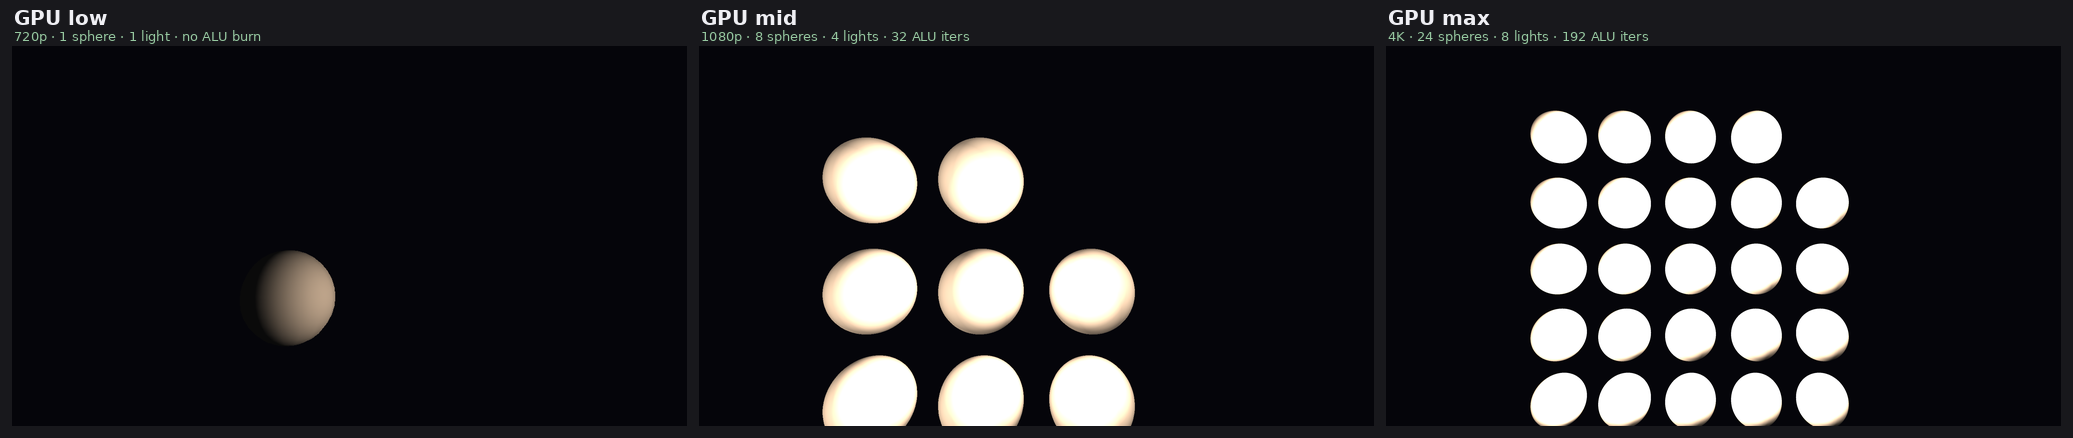
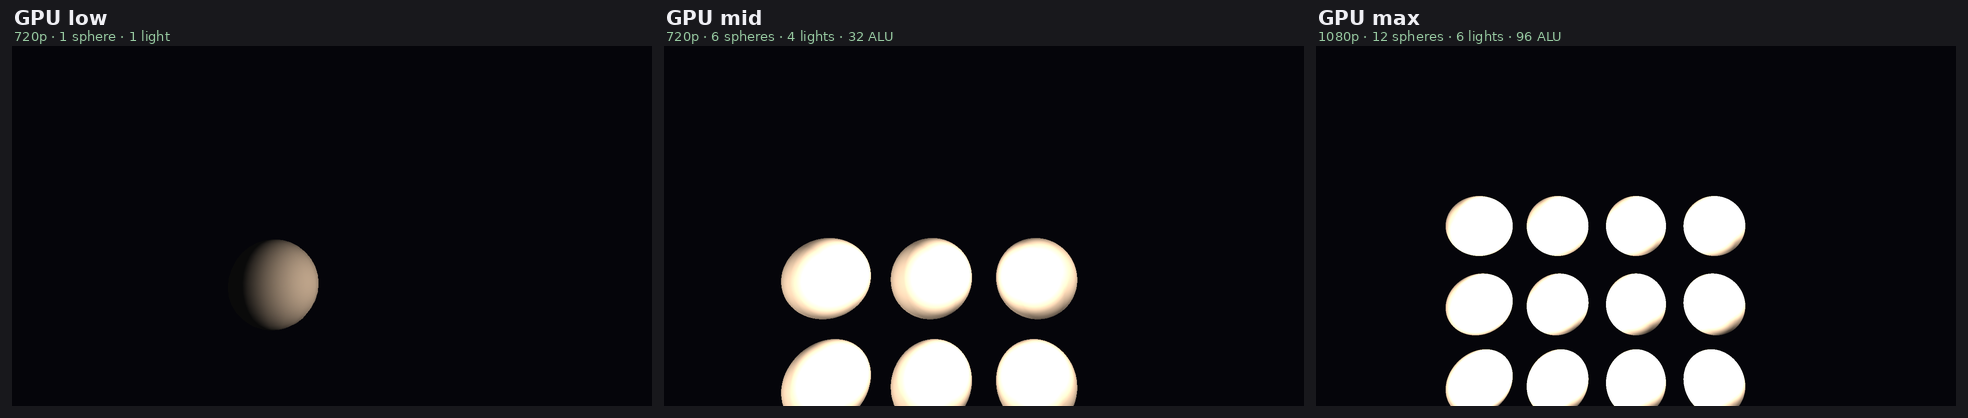
README: quick-start guide + menu/dashboard/frame-buffer screenshots
Reworks the README into a get-started-fast guide: a 30-second mock quick start
(clone, build, run, walk the menu), a concise "running on an i.MX95" section
pointing at docs/BOARD.md with the cross-compile one-liner, and per-subsystem
build options. Adds real screenshots — the menu system, the live run dashboard,
the GPU frame-buffer renders (low/mid/max, recalibrated), and the actual Big
Buck Bunny frame the decoder now processes. Updates status to "running on real
i.MX95 silicon" and fixes the stale -DIMX95_TARGET reference (backends are
per-subsystem). Drops the superseded synthetic-input image.

diff --git a/README.md b/README.md
@@ -4,29 +4,63 @@ An interactive, single-binary command-line harness for exercising **NXP i.MX95**
 media/compute blocks — **GPU** and **VPU** today, **NPU** later — and measuring
 how loading one block affects another.
 
-The goal is not to benchmark a block in isolation. It is to answer questions an
-SoC integrator actually asks:
+The goal is not to benchmark a block in isolation. It is to answer the question
+an SoC integrator actually asks:
 
-> *If I max out the GPU and run a 4K VPU encode, what does that do to my camera
-> pipeline, and to total DDR bandwidth?*
+> *If I max out the GPU and run a 4K VPU decode, what does that do to my other
+> blocks, and to total DDR bandwidth?*
 
-You pick some heavy workloads, run them together (or alone), and at the end you
-get per-workload throughput plus the **global DDR memory-traffic** numbers that
-expose cross-block interference.
+You pick some heavy workloads, run them together (or alone), and get per-workload
+throughput plus the **global DDR memory-traffic** numbers that expose cross-block
+interference.
 
-> **Status:** the full interactive CLI, parallel run engine, live dashboard,
-> graceful shutdown, and stats reporting work today. Each subsystem's backend is
-> selected independently at build time:
+![menu](docs/images/menu.png)
+
+During a run, a live dashboard shows each workload's fps and the rolling DDR
+bandwidth; stop any time for a final report:
+
+![live dashboard](docs/images/dashboard.png)
+
+> **Status:** GPU, VPU, and the DDR monitor are all **running on real i.MX95
+> silicon** (an i.MX95 EVK). Each subsystem's backend is selected independently
+> at build time, and a full **mock** build runs the entire UI on any Linux host:
 >
-> | Subsystem | `mock` | real |
+> | Subsystem | `mock` | real backend |
 > |-----------|:------:|------|
-> | GPU | ✅ | ✅ `gles` — EGL + GLES2, builds & runs on host Mesa **and** i.MX95 Mali |
-> | VPU | ✅ | ✅ `v4l2` — V4L2 mem2mem decode/encode; validated on `vicodec` (host), single- + multi-planar, pending board |
-> | DDR | ✅ | ✅ `pmu` — i.MX9 DDR perf counters via `perf_event_open`; host falls back to the estimate bus, pending board |
+> | GPU | ✅ | ✅ `gles` — EGL + GLES2, headless via GBM; host Mesa **and** i.MX95 Mali |
+> | VPU | ✅ | ✅ `v4l2` — V4L2 mem2mem decode/encode; H.264 on the i.MX95 Wave VPU |
+> | DDR | ✅ | ✅ `pmu` — i.MX9 DDR perf counters via `perf_event_open` |
 >
-> Mock backends run anywhere (host, CI, `qemu-imx95`, which has no GPU/VPU). The
-> GLES backend is *real* and portable, so the GPU code path is validated on a
-> dev host before it ever touches silicon.
+> Still in progress: NPU (eIQ Neutron), an optional on-screen GPU window, and
+> tuning. See [`docs/DESIGN.md`](docs/DESIGN.md).
+
+## Quick start — try the UI in 30 seconds (no i.MX95 needed)
+
+The all-mock build runs the complete interface anywhere — host, CI, or
+`qemu-imx95` (which has no GPU/VPU). It simulates the workloads so you can learn
+the menus, run loop, and reporting before touching hardware.
+
+```sh
+git clone https://github.com/kylefoxaustin/imx95-media-test
+cd imx95-media-test
+cmake -S . -B build
+cmake --build build -j
+./build/imx95-test
+```
+
+Then drive the menu (it mirrors the screenshots above):
+
+1. `1` → **Configure workloads**.
+2. `1` → GPU → `3` (mid) → `b`. Then `2` → VPU decode → `3` (1080p) → `b`. Then
+   `b` back to the main menu. Selections apply instantly and are always shown;
+   `b` goes back everywhere — no dead ends.
+3. `2` → **Run** → `1` continuous (or `2` once, `3` a fixed loop count).
+4. Watch the live dashboard. Press **space** for a menu (resume / stop & report /
+   quit), or **Ctrl-C** to stop gracefully. Either way you get a per-workload +
+   DDR **run report**.
+
+On real hardware the experience is identical — you just build with the real
+backends (see **Running on an i.MX95** below).
 
 ## What it exercises
 
@@ -42,135 +76,101 @@ single-resolution. The GPU level is a single choice.
 ## What the workloads look like
 
 The GPU workload renders a procedural lit-sphere scene whose cost scales across
-the levels — geometry, light count, and per-pixel shader work all increase:
+the levels — resolution, geometry, light count, and per-pixel shader work all
+increase (these defaults are tuned for the Mali-G310 and are overridable with
+`IMX95_GPU_*` env vars):
 
 ![GPU scene at low / mid / max](docs/images/gpu_scene.png)
 
-The VPU encode workload is fed procedurally generated frames: a deterministic
-*moving byte pattern*, not a real image — for a codec **throughput** test the
-pixel content is irrelevant, only that frames differ each tick. (Decode loops a
-bitstream produced by encoding a few of these into memory, so no media files are
-needed.)
+VPU **decode** runs real **Big Buck Bunny** content (baked into the binary at
+720p/1080p/4K) so its frame rate is representative — synthetic frames compress to
+almost nothing and decode unrealistically fast:
 
-![VPU synthetic encoder input](docs/images/vpu_synthetic.png)
+![VPU decode input — Big Buck Bunny](docs/images/vpu_decode.png)
 
-> Captured headless via EGL surfaceless with `IMX95_GPU_DUMP=<path.ppm>`.
+(VPU **encode** is fed procedurally generated raw frames; for an encode
+throughput test the pixel content is irrelevant, only that frames change.)
+
+> GPU frames captured headless with `IMX95_GPU_DUMP=<path.ppm>`.
+
+## Running on an i.MX95
+
+The deploy artifact is a single binary — see **[`docs/BOARD.md`](docs/BOARD.md)**
+for the full build + run + bring-up guide. The short version, cross-compiling a
+ready-to-upload binary with a generic aarch64 toolchain (no BSP sysroot needed —
+the GLES backend `dlopen`s the Mali libs at runtime):
+
+```sh
+scripts/fetch-assets.sh        # fetch + transcode the Big Buck Bunny clips (once)
+cmake -S . -B build-aarch64 -DCMAKE_TOOLCHAIN_FILE=cmake/aarch64-linux-gnu.cmake \
+      -DIMX95_GPU=gles -DIMX95_VPU=v4l2 -DIMX95_DDR=pmu
+cmake --build build-aarch64 -j
+aarch64-linux-gnu-strip build-aarch64/imx95-test
+# upload build-aarch64/imx95-test to the board and: sudo ./imx95-test
+```
+
+Run as **root** (the DDR PMU and codec/GPU nodes need it). Handy overrides:
+`IMX95_VPU_CODEC=h264|hevc`, `IMX95_VPU_STREAM=<file.h264>`,
+`IMX95_GPU_{W,H,SUBDIV,INSTANCES,LIGHTS,EXTRA,PASSES}`, `IMX95_DDR_BEAT_BYTES`,
+`IMX95_DRM_DEVICE`. Details and a first-run checklist are in `docs/BOARD.md`.
+
+## Build options
+
+Backends are chosen per subsystem (`mock` default):
+
+```sh
+cmake -S . -B build -DIMX95_GPU=gles -DIMX95_VPU=v4l2 -DIMX95_DDR=pmu
+```
+
+- **`-DIMX95_GPU=gles`** — headless EGL + GLES2 (Mesa on a host, Mali on target).
+- **`-DIMX95_VPU=v4l2`** — V4L2 stateful mem2mem codec; bakes in the BBB clips
+  when `assets/clips/*.h264` exist (run `scripts/fetch-assets.sh`).
+- **`-DIMX95_DDR=pmu`** — i.MX9 DDR PMU via `perf_event_open`.
+
+### Exercise the V4L2 codec path on a host (no VPU)
+
+The kernel's virtual stateful codec `vicodec` speaks the same uAPI as the Wave
+VPU, so the decode/encode plumbing can be validated on a dev box:
+
+```sh
+sudo modprobe vicodec                        # creates /dev/videoN codec nodes
+cmake -S . -B build-vpu -DIMX95_VPU=v4l2 && cmake --build build-vpu -j
+IMX95_VPU_CODEC=fwht ./build-vpu/imx95-test  # vicodec uses the FWHT codec
+```
+
+### DDR bandwidth notes (`-DIMX95_DDR=pmu`)
+
+Reads `fsl_imx9_ddr_perf` (sysfs `imx9_ddr0`), summing the read/write **beat**
+counters (`eddrtq_pm_rd_beat_filt*` / `..._wr_beat_filt` on i.MX95). Needs root
+(or `perf_event_paranoid <= 0`); falls back to an estimate when absent. Bytes =
+beats × `IMX95_DDR_BEAT_BYTES` (default **32** — confirm against the RM).
 
 ## Design at a glance
 
 - **Single self-contained binary.** It talks to the VPU directly via V4L2
   `mem2mem` ioctls (no GStreamer) and `dlopen`s the platform EGL/GLES libraries
-  that ship on any i.MX95 BSP image. No extra packages required on the target.
-  (A truly *static* GPU binary is impossible — the Mali userspace driver is a
-  vendor blob loaded at runtime — so "single binary" means *one executable we
-  ship that uses the platform's media libs.*)
-- **Backend abstraction.** Every workload implements a small `Workload`
-  interface; the DDR monitor implements `DdrMonitor`. The host build links
-  **mock** implementations; a target build (`-DIMX95_TARGET=ON`) links the
-  **real** ones. This is what lets the CLI be developed and CI-tested without
+  that ship on any i.MX95 BSP image — so it links no GPU libraries and needs no
+  extra packages on the target.
+- **Per-subsystem backend abstraction.** Every workload implements a small
+  `Workload` interface; the DDR monitor implements `DdrMonitor`. Exactly one
+  `mock` or real implementation is compiled per subsystem (`-DIMX95_GPU/VPU/DDR`),
+  so real backends land incrementally and the CLI is developed/CI-tested without
   silicon.
-- **DDR memory traffic is the headline metric.** Read from the i.MX9 DDR
-  performance monitor (`perf_event_open`) on real hardware. It is global to the
-  SoC, which is exactly why it reveals one block stealing bandwidth from
-  another.
+- **DDR memory traffic is the headline metric.** Read from the i.MX9 DDR PMU
+  (`perf_event_open`) on hardware. It is global to the SoC, which is exactly why
+  it reveals one block stealing bandwidth from another.
 
-See [`docs/DESIGN.md`](docs/DESIGN.md) for the architecture and roadmap.
-
-## Build
-
-All-mock build (runs anywhere, including under qemu-imx95):
-
-```sh
-cmake -S . -B build
-cmake --build build -j
-./build/imx95-test
-```
-
-Pick real backends per subsystem with `-DIMX95_GPU=`, `-DIMX95_VPU=`,
-`-DIMX95_DDR=`. The GLES GPU backend needs `egl` + `glesv2` (Mesa on a host;
-the Mali libs on an i.MX95 image) and runs headless:
-
-```sh
-cmake -S . -B build-gles -DIMX95_GPU=gles   # real GPU, mock VPU/DDR
-cmake --build build-gles -j
-./build-gles/imx95-test
-```
-
-For an i.MX95 target, configure with the Yocto BSP toolchain file and the same
-`-DIMX95_GPU=gles -DIMX95_VPU=v4l2` (plus `-DIMX95_DDR=pmu` once it lands).
-
-### Testing the V4L2 codec path on a host (no VPU needed)
-
-The kernel's virtual stateful codec, `vicodec`, speaks the same V4L2 mem2mem
-uAPI as the i.MX95 Wave VPU, so the decode/encode plumbing can be exercised on a
-dev box:
-
-```sh
-sudo modprobe vicodec                       # creates /dev/videoN codec nodes
-cmake -S . -B build-vpu -DIMX95_VPU=v4l2 && cmake --build build-vpu -j
-IMX95_VPU_CODEC=fwht ./build-vpu/imx95-test  # vicodec uses the FWHT codec
-```
-
-On the i.MX95 use the default `IMX95_VPU_CODEC=h264` (or `hevc`). Device nodes
-are auto-discovered; pin them with `IMX95_VPU_ENCODE_DEV` / `IMX95_VPU_DECODE_DEV`
-if needed.
-
-### DDR bandwidth (`-DIMX95_DDR=pmu`)
-
-Reads the i.MX9 DDR performance monitor (`fsl_imx9_ddr_perf`, sysfs `imx9_ddr0`)
-via `perf_event_open`, summing the read/write **beat** counters
-(`eddrtq_pm_rd_beat_filt*` / `..._wr_beat_filt` on i.MX95). Notes:
-
-- Needs permission for system PMU events (run as root, or
-  `perf_event_paranoid <= 0`). If the PMU is missing or denied, it transparently
-  falls back to the estimate bus, so the build runs anywhere.
-- Bytes = beats × `IMX95_DDR_BEAT_BYTES` (default **32** — confirm against the
-  i.MX95 reference manual and adjust if needed).
-- Override discovery with `IMX95_DDR_PMU=imx9_ddr0`.
-
-## Deploying to a board
-
-The deploy artifact is just the (small) cross-built binary — **no media files**,
-because the VPU workloads are self-sourcing (encode feeds synthetic frames;
-decode bootstraps its bitstream by encoding a few frames into memory). If you do
-need to move a large file to a board with a per-upload size cap,
-`scripts/chunk.sh split <file> [MB]` produces `<=MB` parts + a manifest, and
-`scripts/chunk.sh join <file>` reassembles and sha256-verifies them on the board.
-
-## Using it
-
-```text
-== i.MX95 Media Test Framework ==   (backend: mock)
-config:  nothing configured
-  1) Configure workloads
-  2) Run
-  3) Load / Save config
-  q) Quit
-```
-
-- **Configure** toggles each block on/off and sets its level/resolution.
-  Selections apply immediately and are always shown; `b` goes back everywhere —
-  no dead ends.
-- **Run** offers *continuous* (until `Ctrl-C` or the space-menu), *once*, or a
-  *fixed loop count*. During a run a live dashboard shows per-workload fps and
-  the rolling DDR bandwidth; press **space** for a menu (resume / stop & report
-  / quit) or **Ctrl-C** to stop gracefully. Either way you get a final report:
-
-```text
-==== Run report ====
-backend: mock   mode: continuous   elapsed: 12.41 s   ended: stopped
-  GPU mid    frames       1984   avg   159.9 fps   moved 65.78 GB   footprint 0.07 GB
-  DEC 1080p  frames       1489   avg   120.0 fps   moved 4.63 GB    footprint 0.02 GB
-  DDR        read 72.1 GB   write 51.4 GB   total 123.5 GB   avg 9.95 GB/s
-====================
-```
+See [`docs/DESIGN.md`](docs/DESIGN.md) for the architecture, module map, and
+roadmap.
 
 ## Media assets
 
-Decode workloads use **Big Buck Bunny** (© Blender Foundation, CC-BY 3.0),
-which is available pre-encoded at 720p/1080p/4K. Clips are **fetched on demand**
-by `scripts/fetch-assets.sh`, never committed to the repo.
+VPU decode uses **Big Buck Bunny** (© Blender Foundation, CC-BY 3.0).
+`scripts/fetch-assets.sh` downloads the source and transcodes three
+native-resolution H.264 Annex-B clips into `assets/clips/` (gitignored); the
+build bakes them into the binary, so there is still only one file to deploy.
 
 ## License
 
-BSD-3-Clause. See [`LICENSE`](LICENSE).
+BSD-3-Clause. See [`LICENSE`](LICENSE). Bundled Big Buck Bunny frames are
+CC-BY 3.0, © Blender Foundation.